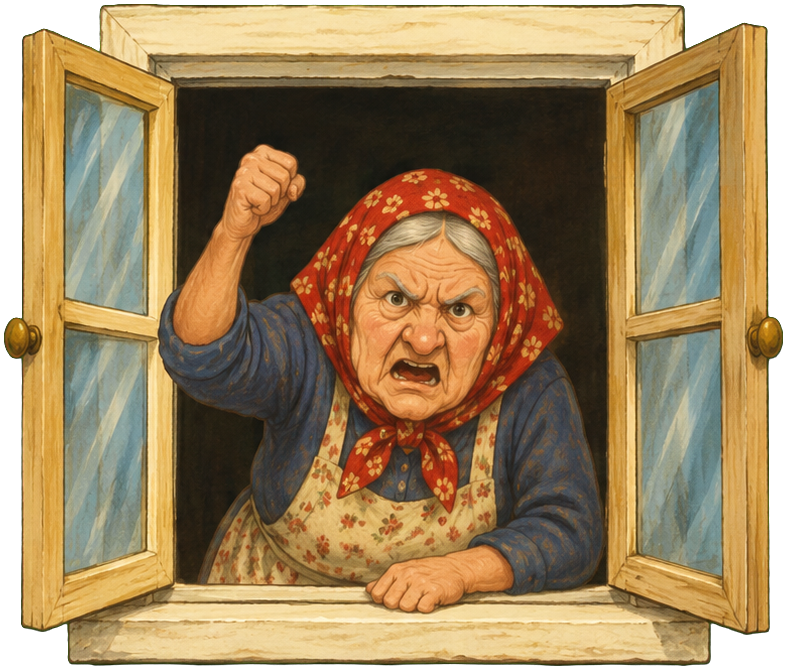
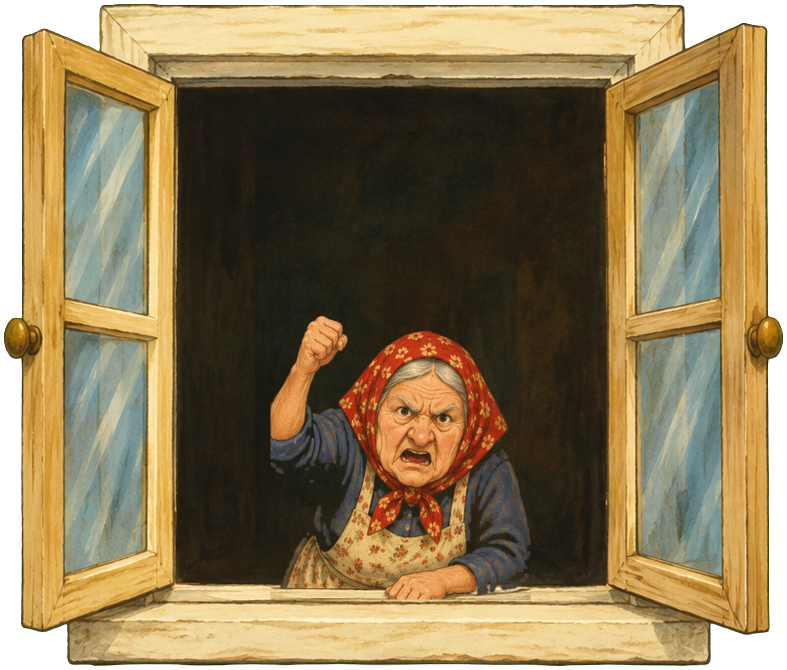
Neighbour poison: she shuts the window after two turns (until-antidote made a duel unfinishable once every other window was broken), test; the neighbour painted at 60% inside the same window frame
Claude-Session: https://claude.ai/code/session_01NK9iDXTyx3wBvzPstrXWEG

diff --git a/Assets/Tests/EditMode/DuelRulesTests.cs b/Assets/Tests/EditMode/DuelRulesTests.cs
@@ -127,7 +127,7 @@ namespace Sheytoonak.Tests
             var r = Make();
             r.Start(Side.Left); r.BeginKick(Side.Left); r.EndKick(Side.Left, -1);
             var wind = StarterHeroes.Get("fulla").Poison;      // accuracy, one turn
-            var open = StarterHeroes.Get("rima").Poison;       // close, until antidote
+            var open = new Tool("test_until", "x", Effect.Close, 1, Lifetime.UntilAntidote); // close, until antidote (no starter has one any more)
             r.Poison(Side.Right, wind);
             r.Poison(Side.Right, open, new[] { 4 });
             Assert.AreEqual(Side.Left, r.Current);
@@ -139,6 +139,19 @@ namespace Sheytoonak.Tests
             Assert.IsTrue(r.IsClosed(4));
             r.Antidote(Side.Left, StarterHeroes.Get("fulla").Antidote);  // pebble: close 1
             Assert.IsFalse(r.IsClosed(4), "an until-antidote poison is lifted by a matching antidote");
+        }
+
+        [Test]
+        public void The_neighbour_shuts_her_window_after_two_turns()
+        {
+            var r = Make();
+            r.Start(Side.Left);
+            r.Poison(Side.Left, StarterHeroes.Get("rima").Poison, new[] { 4 });
+            Assert.IsTrue(r.IsClosed(4));
+            r.Pass(Side.Left); r.Pass(Side.Right);
+            Assert.IsTrue(r.IsClosed(4), "still there during the next two turns");
+            r.Pass(Side.Left);
+            Assert.IsFalse(r.IsClosed(4), "gone after two turns: the duel can always end");
         }
 
         [Test]

diff --git a/Assets/Scripts/Core/Duel/DuelTypes.cs b/Assets/Scripts/Core/Duel/DuelTypes.cs
@@ -61,7 +61,9 @@ namespace Sheytoonak.Core.Duel
                 new Tool("wind", "هوا قوي", Effect.Accuracy, 1, Lifetime.OneTurn),
                 new Tool("pebble", "حصوة عالشباك", Effect.Close, 1)),
             new HeroDef("rima", "ريما الشرشوحة الصيداوية",
-                new Tool("open_window", "الجار فتح الشباك", Effect.Close, 1, Lifetime.UntilAntidote),
+                // ⚠ until 2026-11-04 the neighbour stayed until an antidote (pebble). User: «اون سه تا شیشهای که بازه چیه؟ … نباید بعد از
+                // یکی دو نوبت خودش بسته شه؟» -- with every other window broken the duel could not end. Now she shuts it after two turns.
+                new Tool("open_window", "الجار فتح الشباك", Effect.Close, 1, Lifetime.TwoTurns),
                 new Tool("plank", "لوح عالجورة", Effect.Reach, 1)),
             new HeroDef("toni", "طوني الزعران البيروتي",
                 new Tool("puddle", "جورة مي", Effect.Reach, 1, Lifetime.OneTurn),
